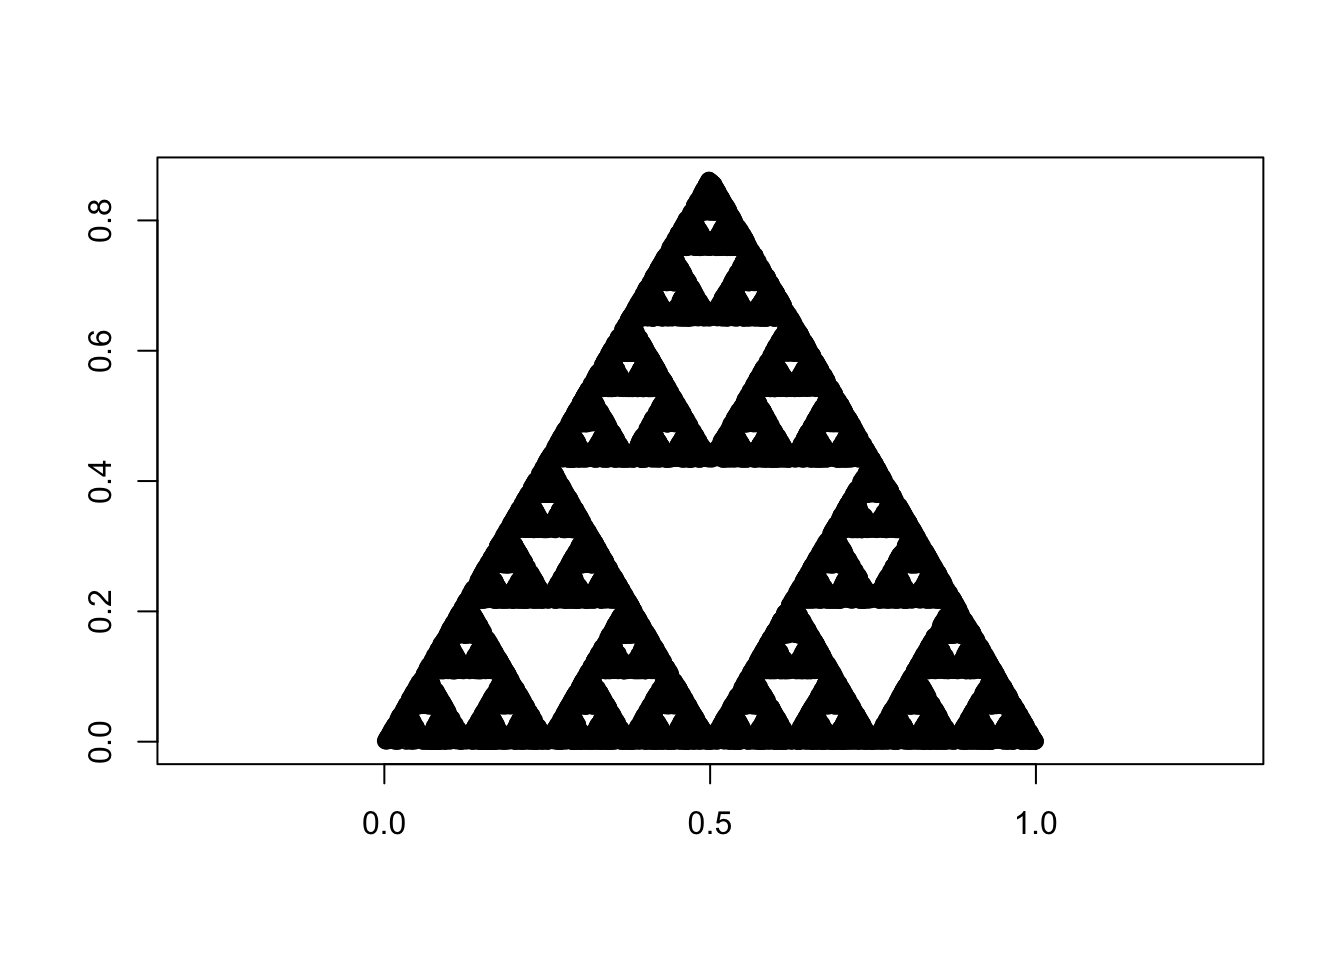
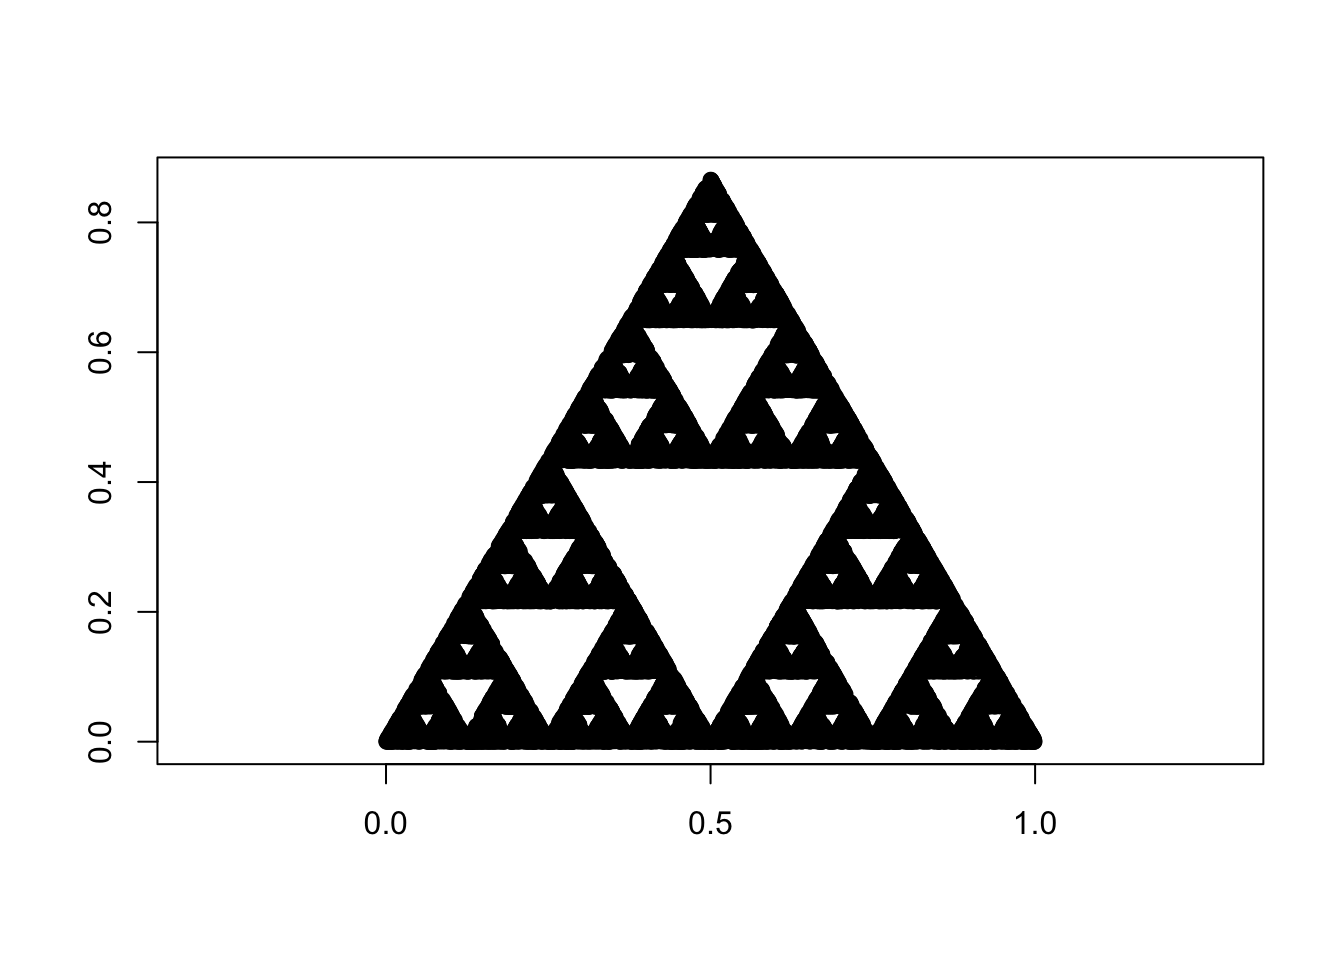
Built site for fdim: 0.2.0@f1410ac

diff --git a/articles/points.html b/articles/points.html
@@ -179,19 +179,20 @@
 <span class="co">#&gt; Simple feature collection with 1 feature and 0 fields</span>
 <span class="co">#&gt; geometry type:  MULTIPOINT</span>
 <span class="co">#&gt; dimension:      XY</span>
-<span class="co">#&gt; bbox:           xmin: 0.001135246 ymin: 8.082593e-10 xmax: 0.9996704 ymax: 0.8621723</span>
+<span class="co">#&gt; bbox:           xmin: 0.0007738349 ymin: 0 xmax: 0.9987243 ymax: 0.8654737</span>
 <span class="co">#&gt; CRS:            EPSG:3857</span>
 <span class="co">#&gt;   st_sfc.st_multipoint.sierpinski_pts...crs...3857.</span>
-<span class="co">#&gt; 1                    MULTIPOINT ((0.25 0.4330127...</span>
+<span class="co">#&gt; 1                    MULTIPOINT ((0.5 0), (0.75 ...</span>
 <span class="fu"><a href="https://rdrr.io/pkg/sf/man/plot.html">plot</a></span>(<span class="no">sierpinski_sf</span>, <span class="kw">axes</span> <span class="kw">=</span> <span class="fl">TRUE</span>)</pre></body></html></div>
-<p><img src="points_files/figure-html/unnamed-chunk-8-1.png" width="672"> The Box-Counting Dimension of this figure is calculated using <code><a href="../reference/bcd.html">bcd()</a></code> as illustrated below.</p>
+<p><img src="points_files/figure-html/unnamed-chunk-8-1.png" width="672"></p>
+<p>The Box-Counting Dimension of this figure is calculated using <code><a href="../reference/bcd.html">bcd()</a></code> as illustrated below.</p>
 <div class="sourceCode" id="cb10"><html><body><pre class="r"><span class="fu"><a href="../reference/bcd.html">bcd</a></span>(<span class="no">sierpinski_sf</span>, <span class="kw">l</span> <span class="kw">=</span> <span class="fu"><a href="https://rdrr.io/r/base/seq.html">seq</a></span>(<span class="fl">0.01</span>, <span class="fl">0.1</span>, <span class="fl">0.01</span>), <span class="kw">plot</span> <span class="kw">=</span> <span class="fl">TRUE</span>)
 <span class="co">#&gt; Generating grids...</span>
 <span class="co">#&gt; Counting intersecting cells...</span>
 <span class="co">#&gt; Plotting requested...</span></pre></body></html></div>
 <p><img src="points_files/figure-html/unnamed-chunk-9-1.png" width="672"></p>
 <pre><code>#&gt; Performing simple linear regression to determine Box-Counting dimension...
-#&gt; [1] 1.598442</code></pre>
+#&gt; [1] 1.599293</code></pre>
 <p>The regression gives a Box-Counting dimension of ~1.59 which is very close to the theoretical value.</p>
 </div>
 </div>
